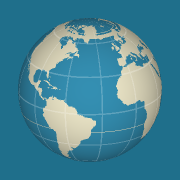
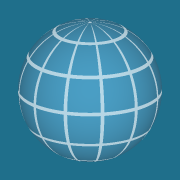
Icono: bola del mundo sencilla; caché v8 para renovar los iconos

Changed region(s): [[0.0833, 0.0833, 0.9167, 0.9167], [0.2778, 0.4722, 0.3333, 0.5]]

diff --git a/sw.js b/sw.js
@@ -1,5 +1,5 @@
 // Cambia la versión del caché cuando modifiques los archivos de la app.
-const CACHE = "300dOnEarth-v7";
+const CACHE = "300dOnEarth-v8";
 const ASSETS = [
   "./", "index.html", "styles.css", "app.js", "data-requisitos.js", "data-cities.js", "data-world.js",
   "manifest.json", "icon-180.png", "icon-192.png", "icon-512.png",
